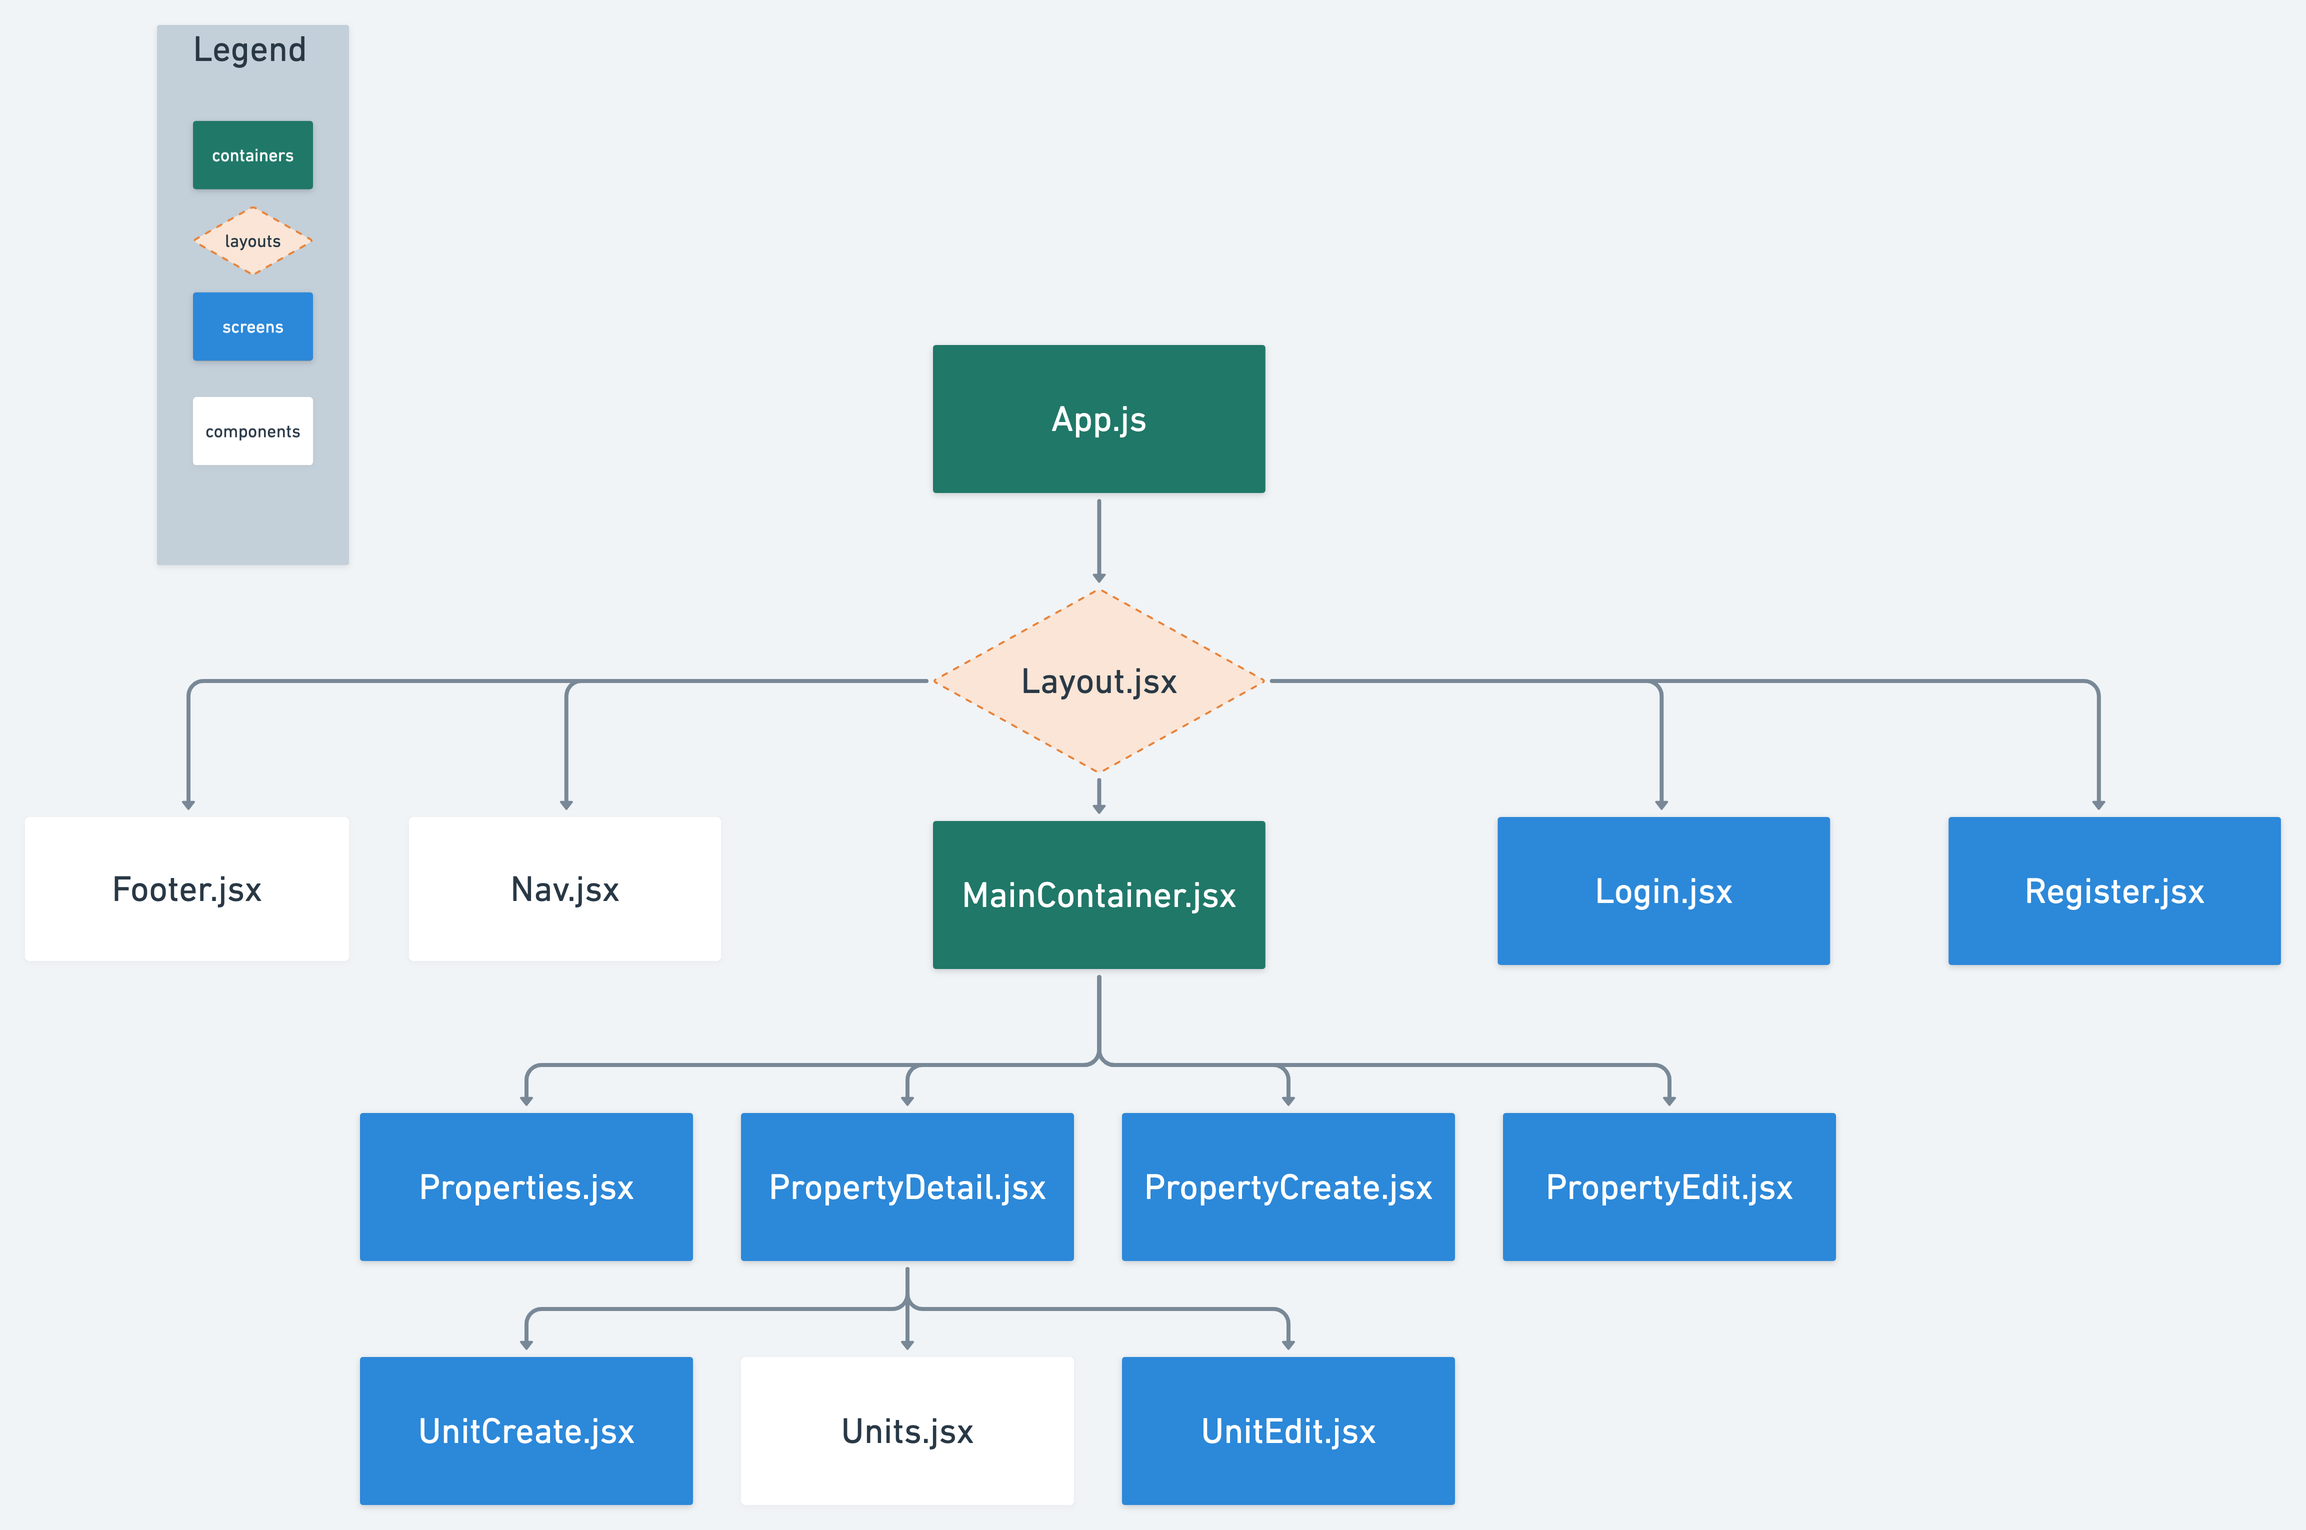
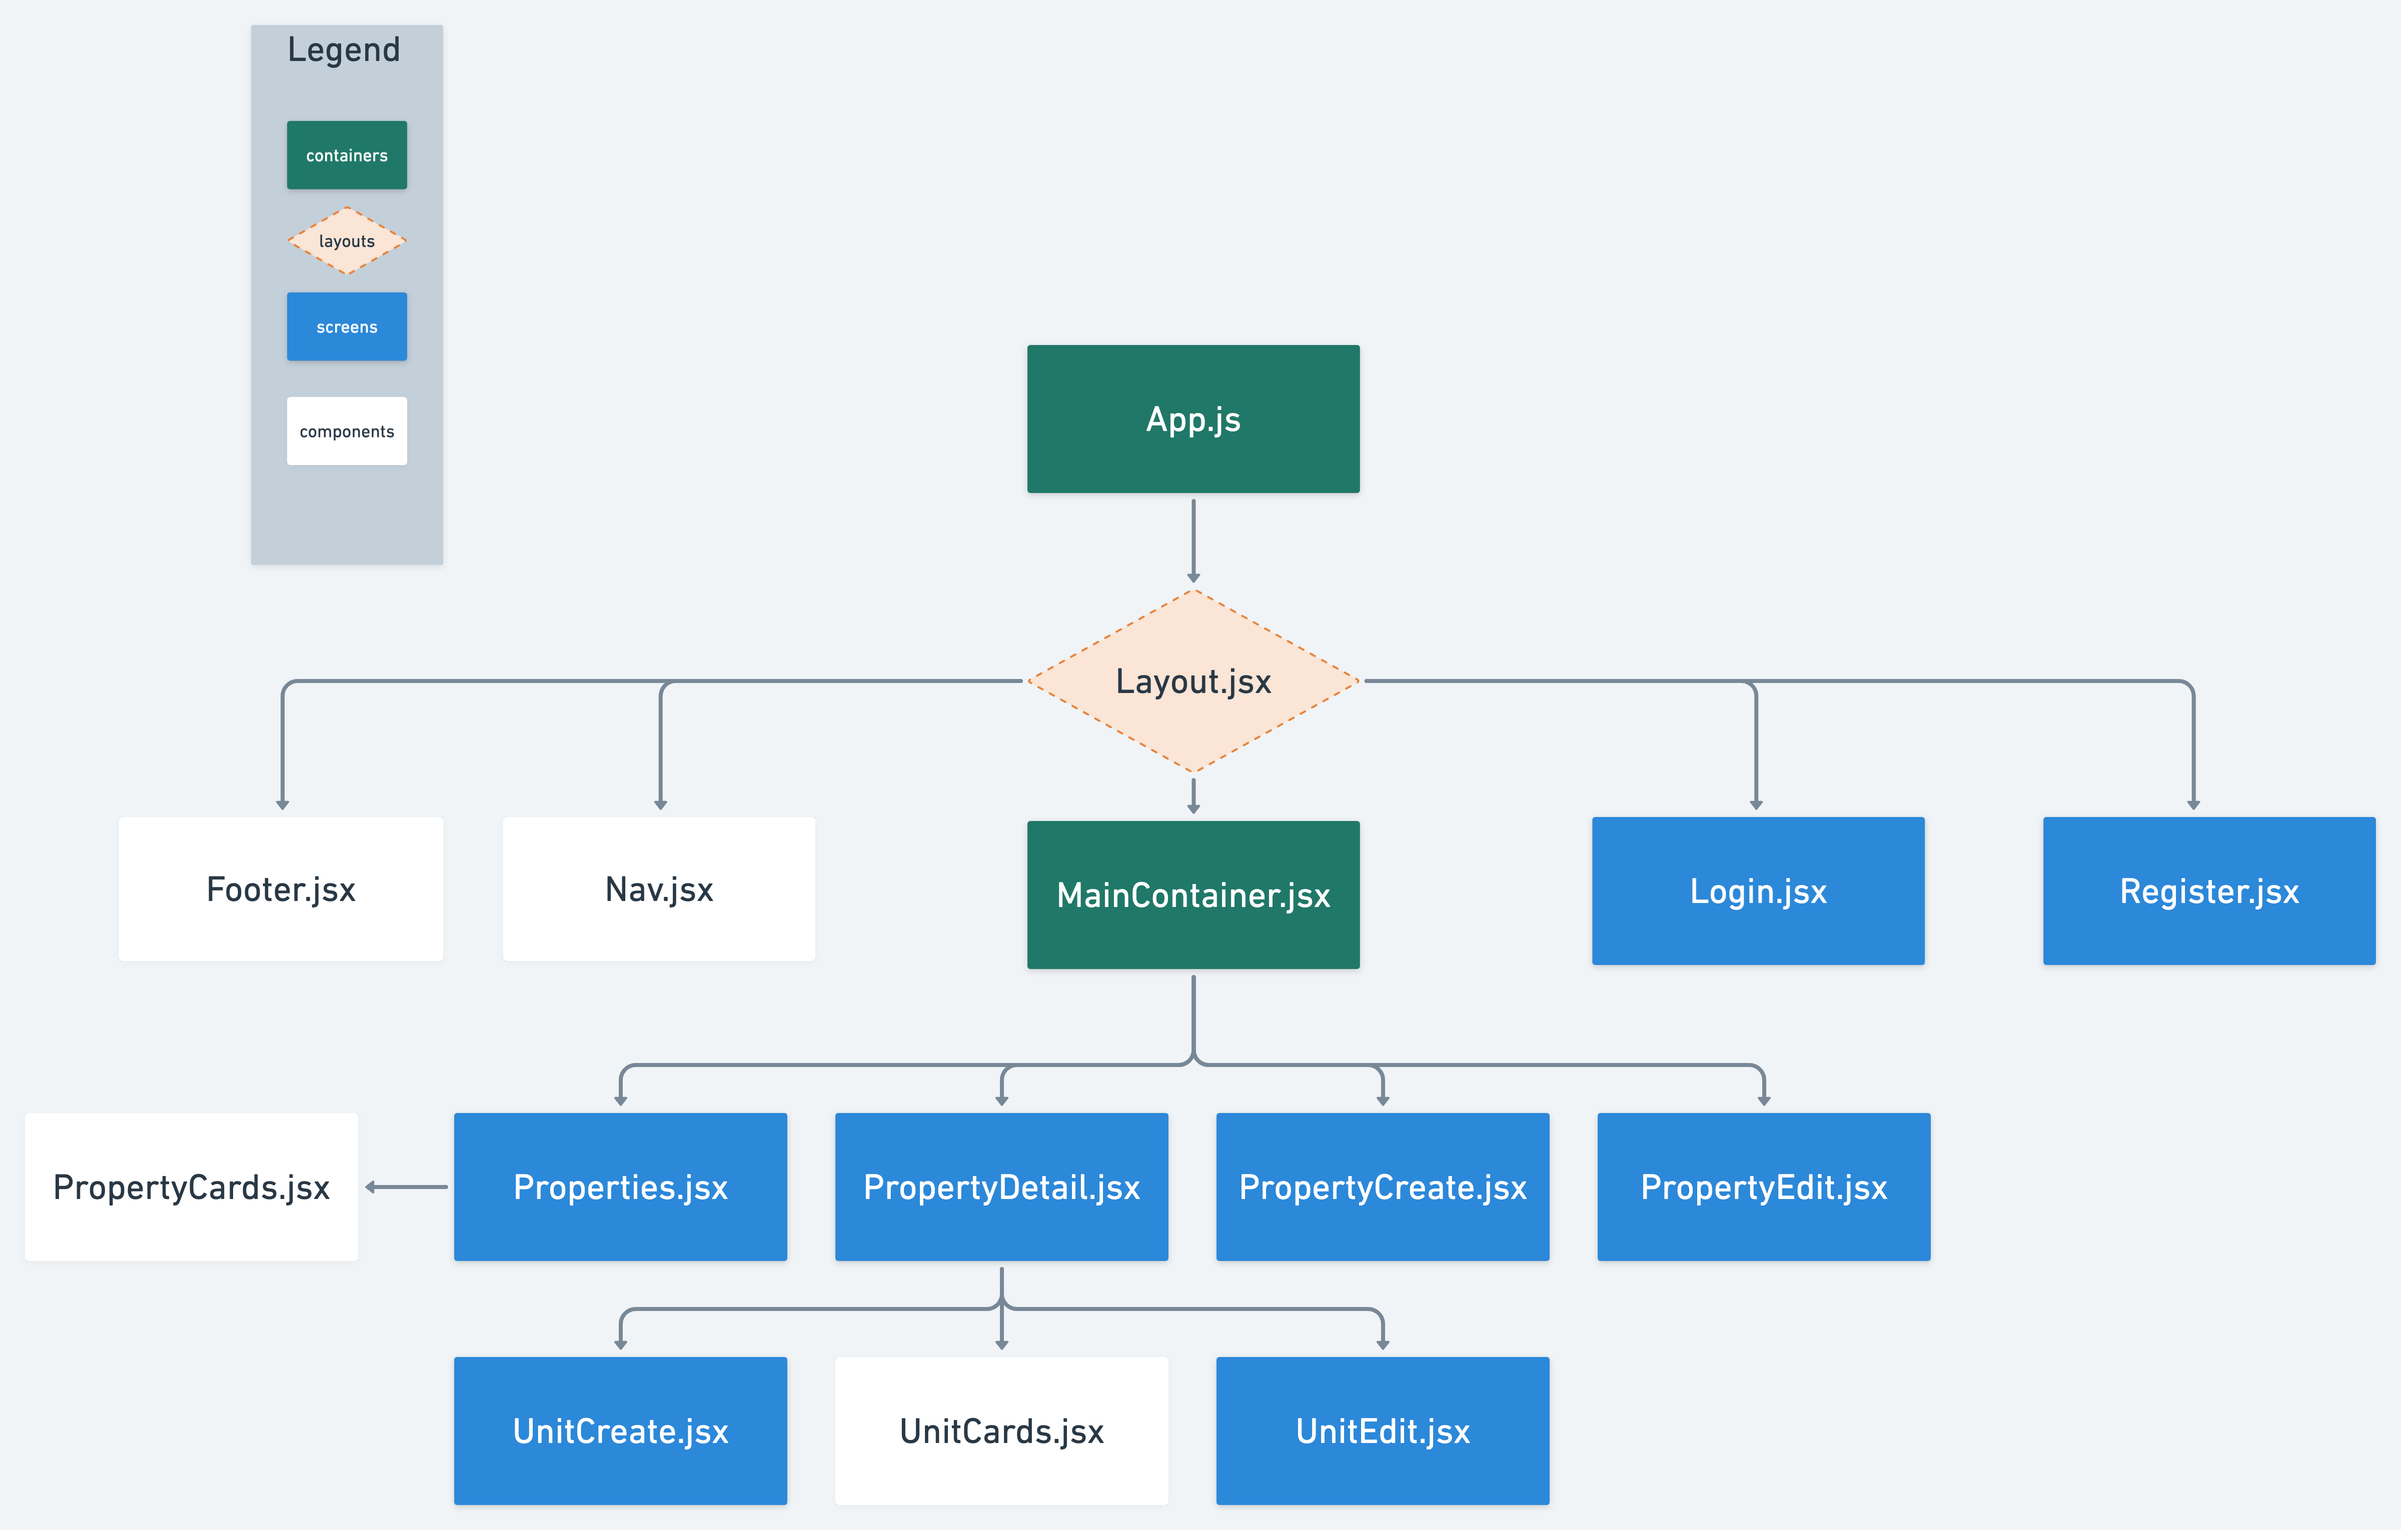
update readme and assets

diff --git a/README.md b/README.md
@@ -82,7 +82,8 @@ src
 |__ components/
       |__ Nav.jsx
       |__ Footer.jsx
-      |__ PropertyCard.jsx
+      |__ PropertyCards.jsx
+      |__ UnitCards.jsx
 |__ containers/
       |__ PropertiesContainer.jsx
 |__ layout/
@@ -95,10 +96,13 @@ src
       |__ Properties.jsx
       |__ PropertyDetails.jsx
       |__ PropertyEdit.jsx
+      |__ UnitEdit.jsx
+      |__ UnitCreate.jsx
 |__ services/
       |__ api-config.js
       |__ auth.js
       |__ Properties.js
+      |__ Units.js
 |__ App.js
 |__ App.css
 |__ index.js
